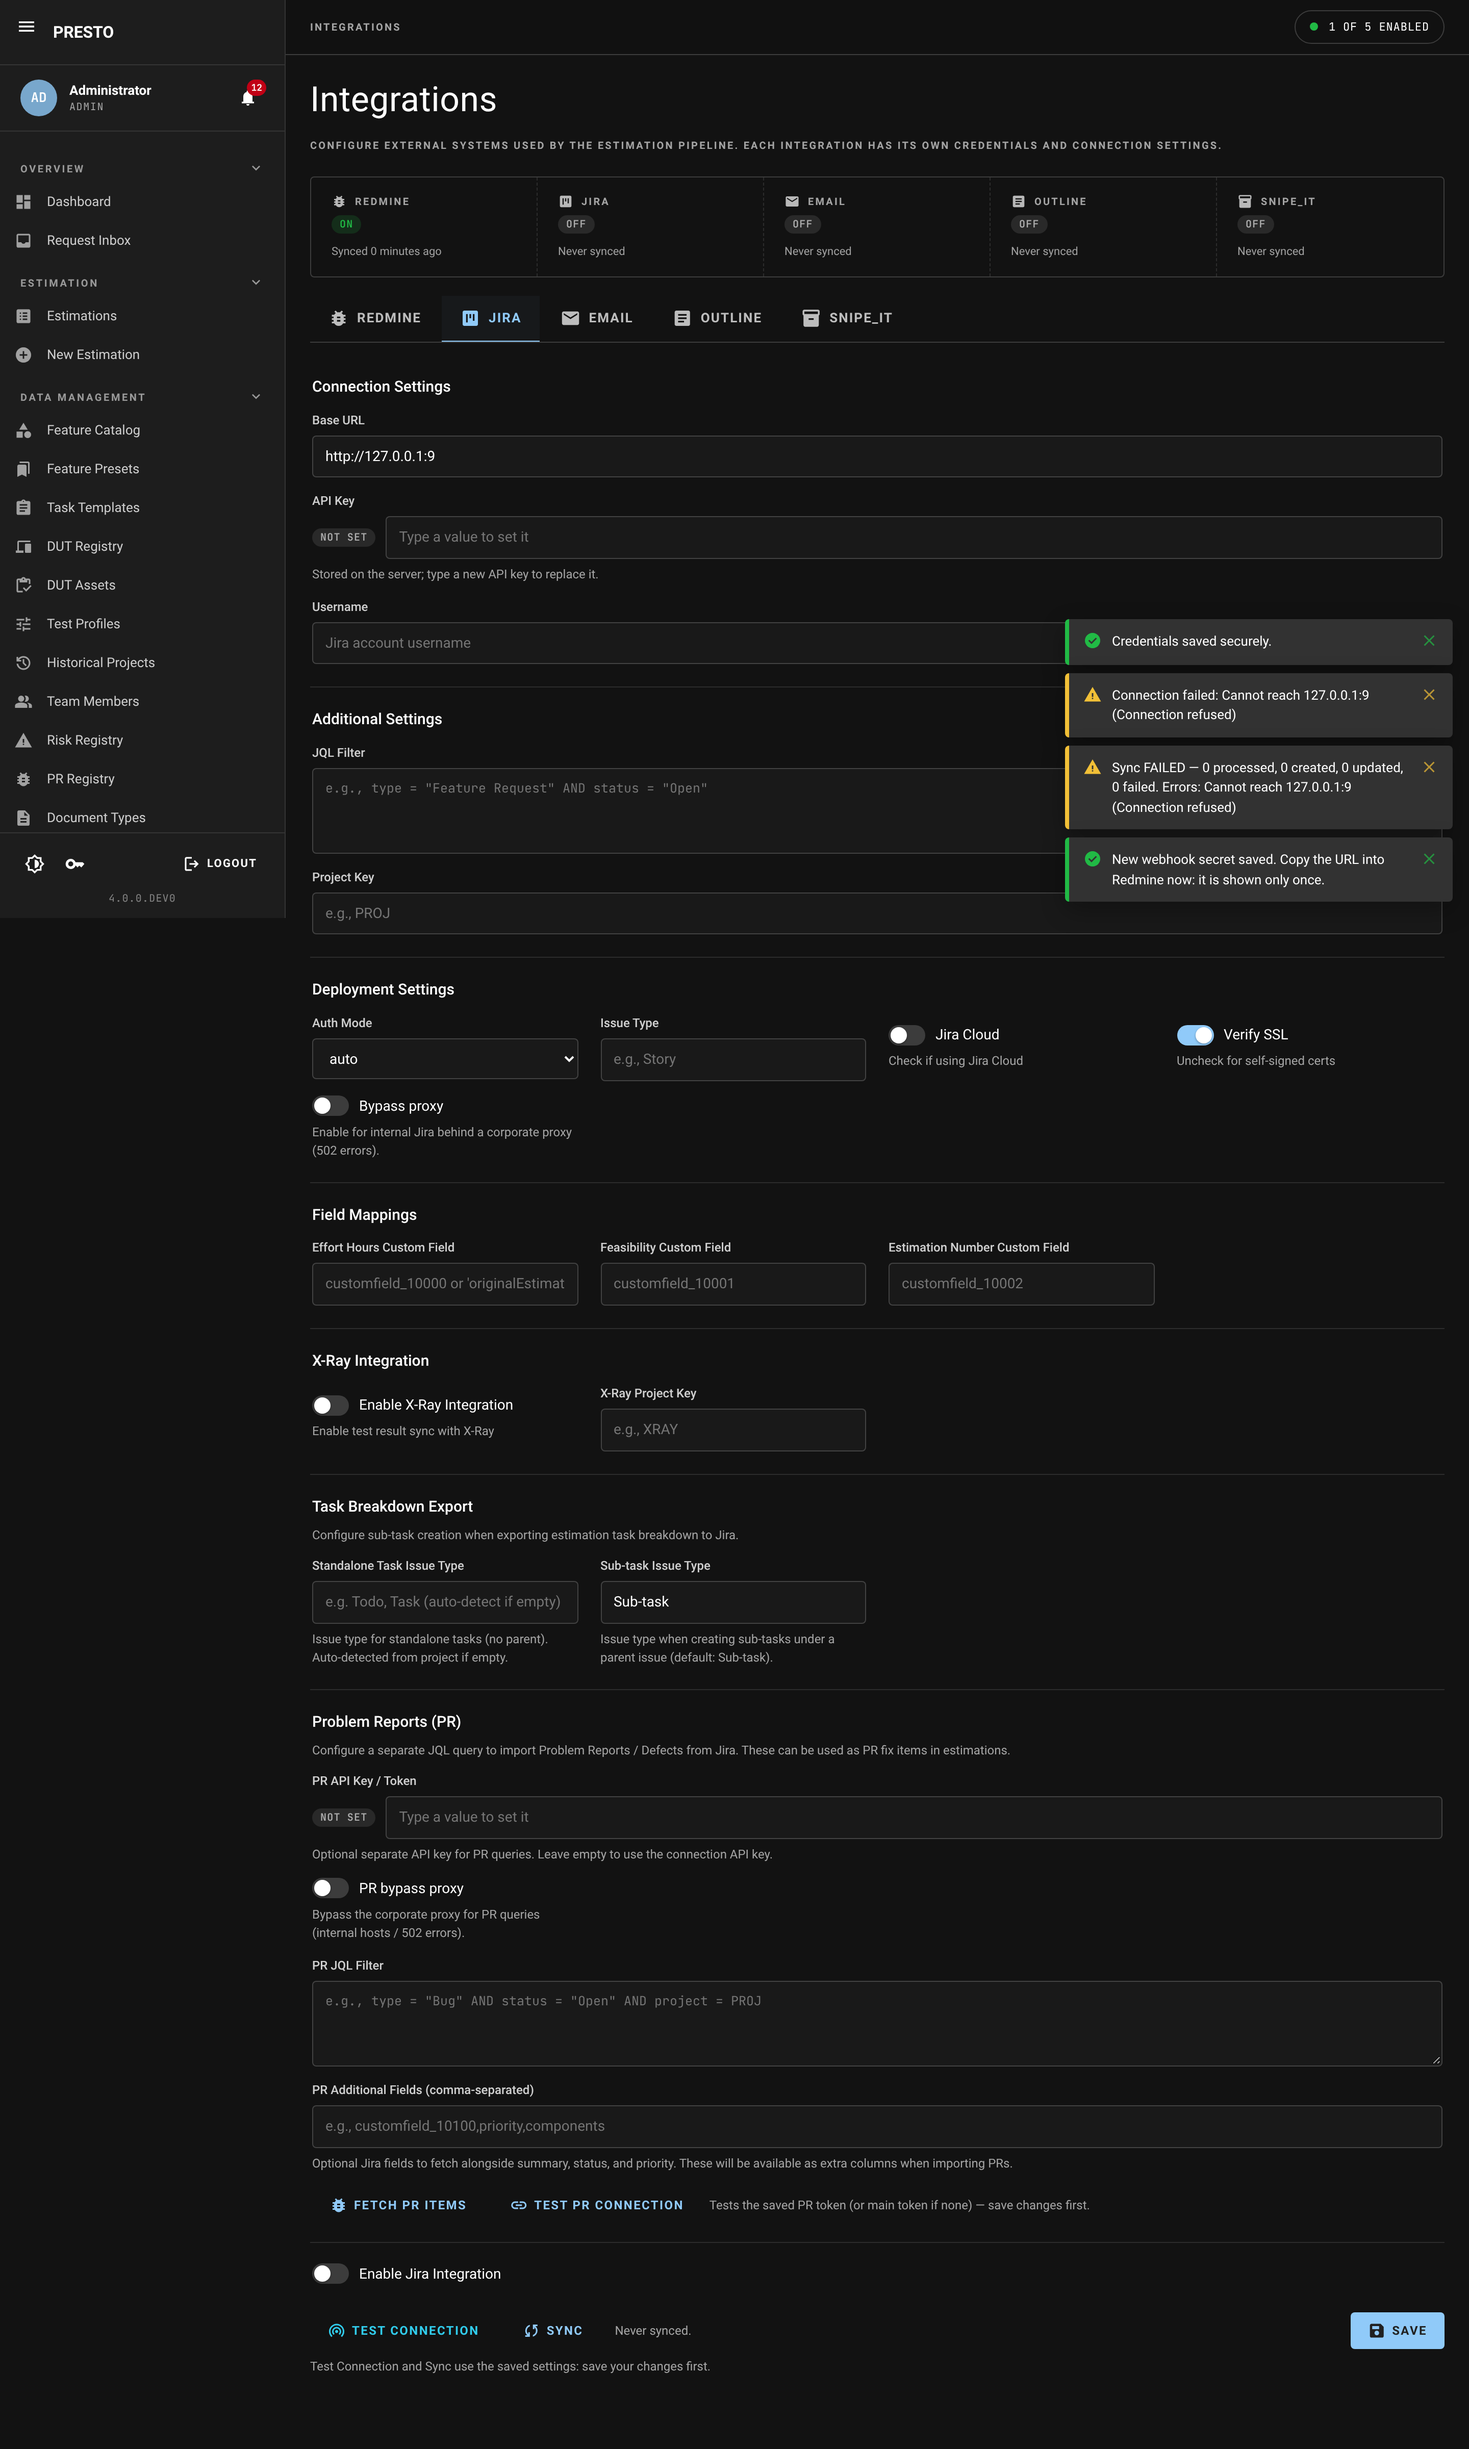
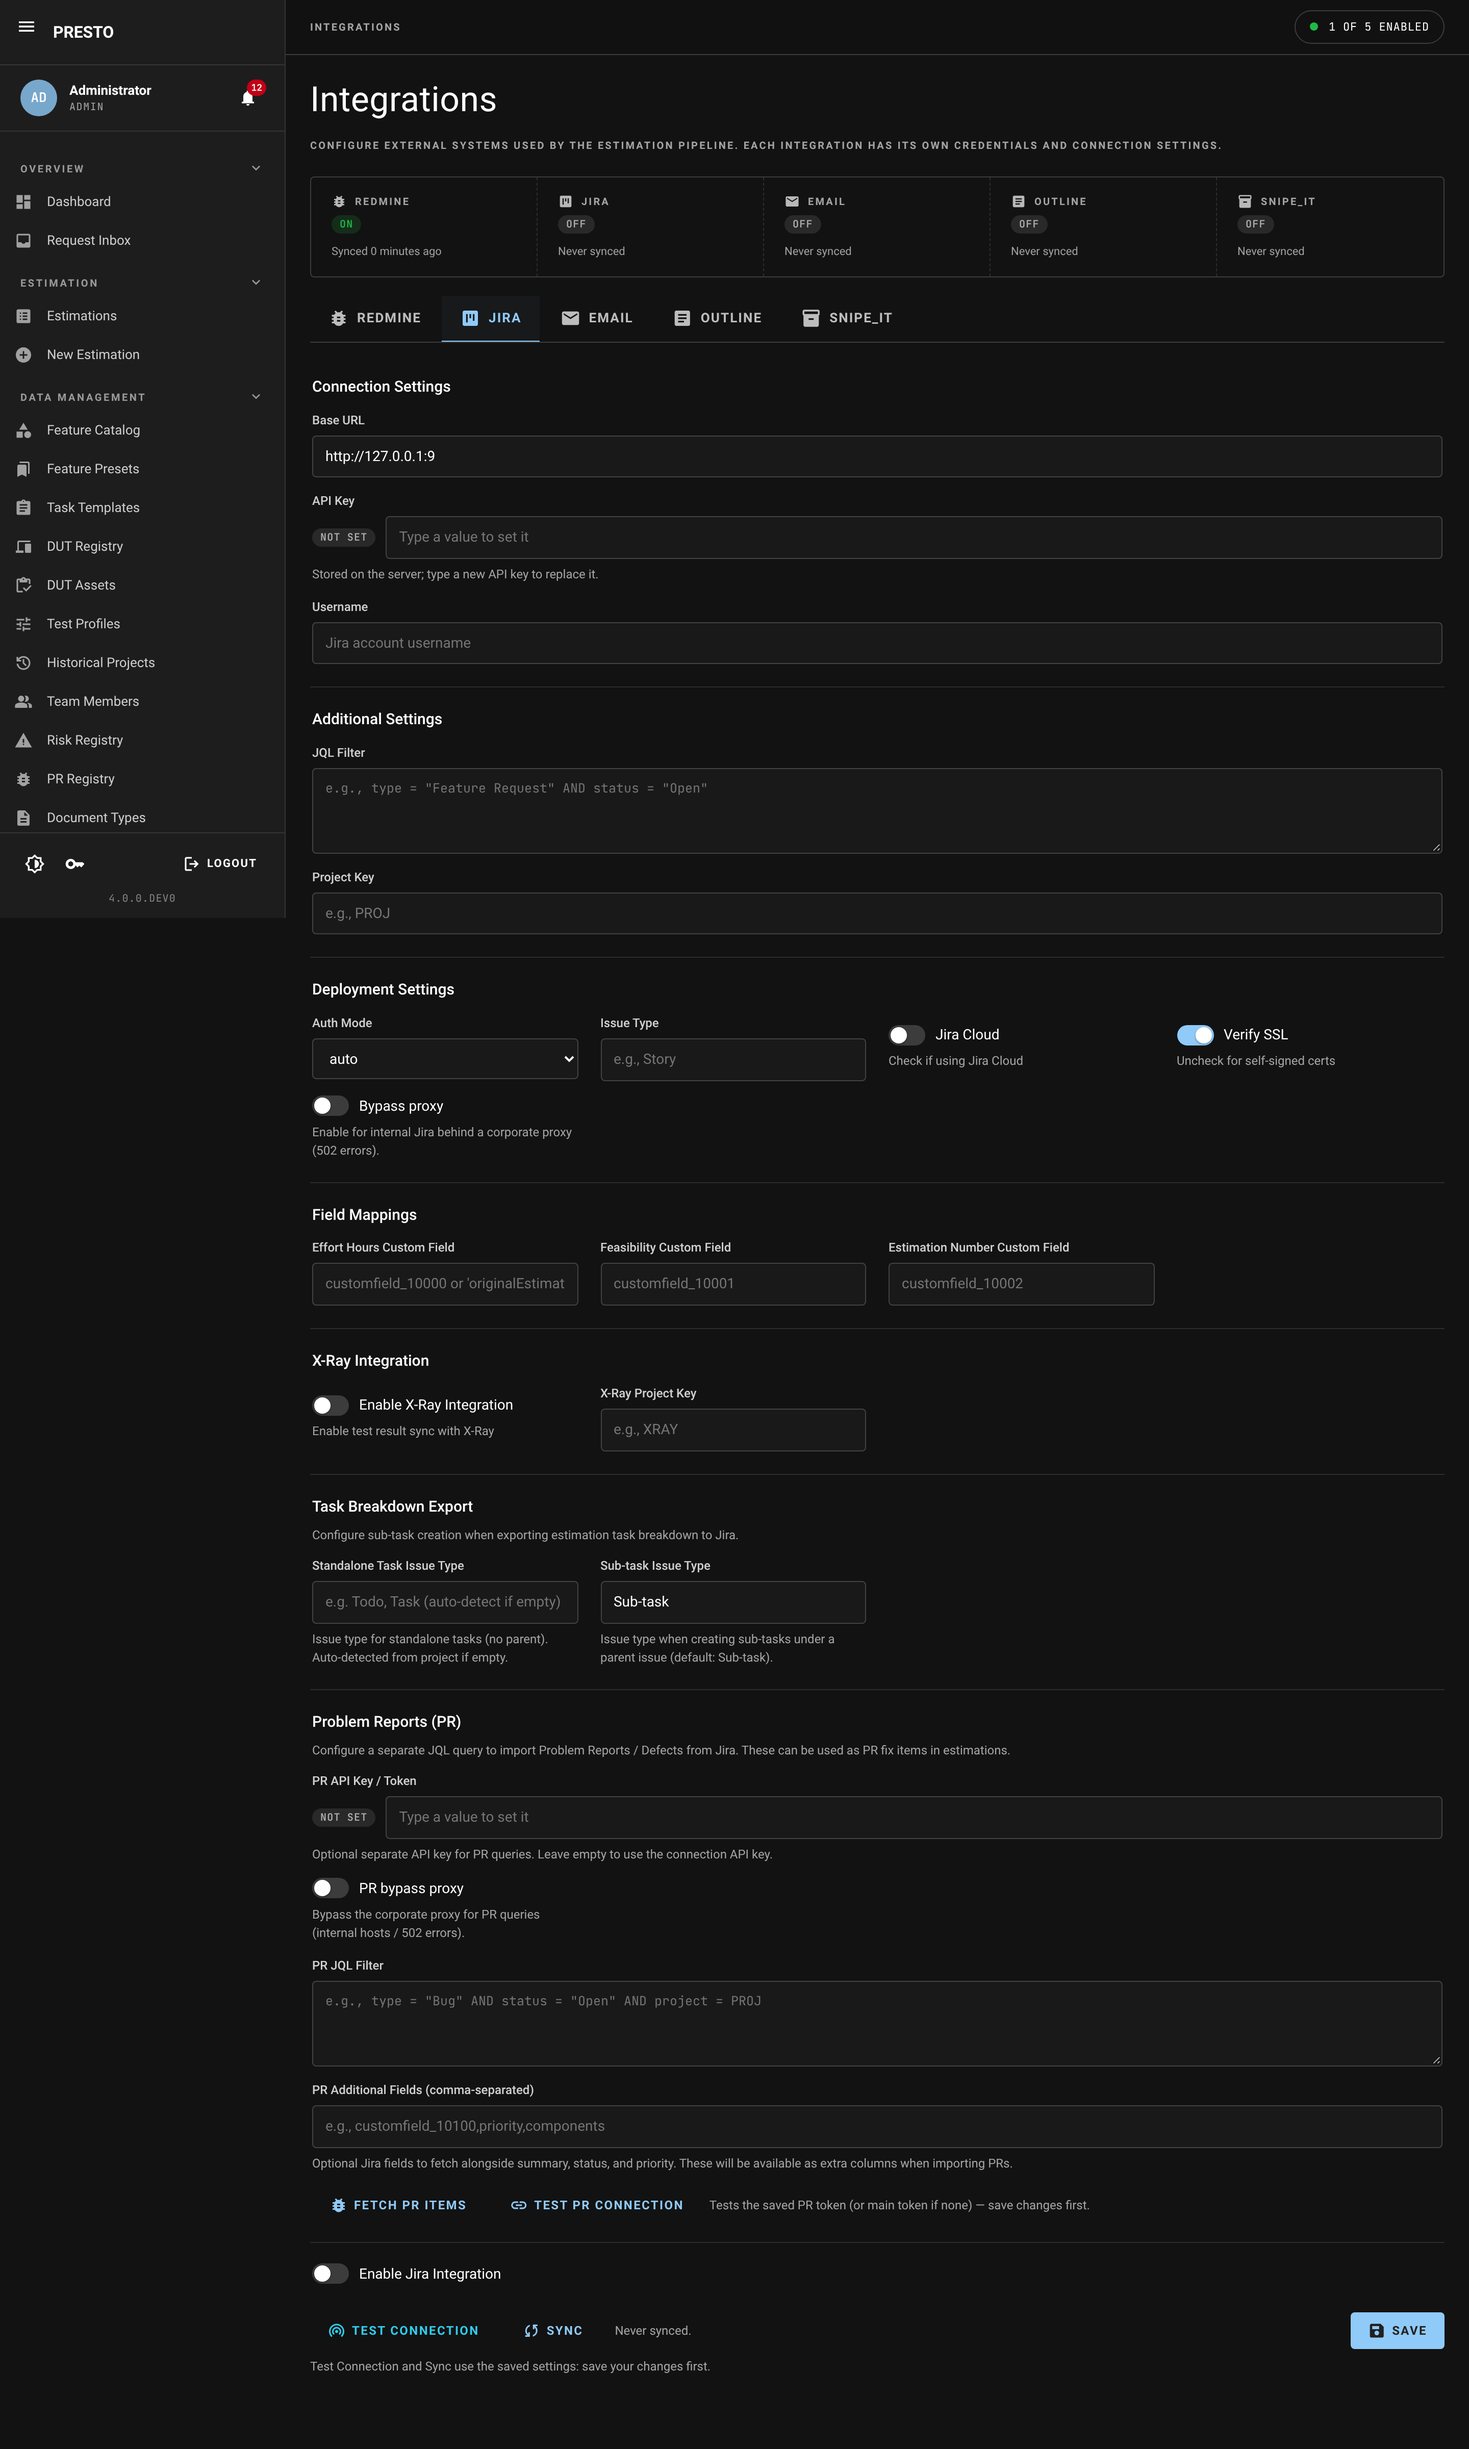
Phase 6: request inbox, dashboard, integrations and notifications pages
- Request inbox and detail with sync, attachments, assign, create estimation
- Dashboard with KPIs, pipeline, ECharts charts and recent lists; stats service
  shared with the API
- Integrations page with all five systems, test/sync, webhook secret, watchers
- Notifications page linked from the bell
- Fixes: toast nodes in htmx history broke browser Back; multi-line template
  comment leaked into pages; boosted links to forbidden pages now show the
  error page; New Estimation hidden without create permission
- No placeholder pages remain; 164 new tests (1411 total)

Changed region(s): [[0.7188, 0.2499, 1.0, 0.3748]]

diff --git a/v4/static/css/pages/integrations_config.css b/v4/static/css/pages/integrations_config.css
@@ -48,9 +48,9 @@
 
 /* Webhook secret + URL */
 .ic-webhook { display: flex; flex-direction: column; gap: 4px; margin-bottom: 14px; }
-.ic-webhook-secret { display: flex; align-items: flex-end; gap: 10px; flex-wrap: wrap; }
+.ic-webhook-secret { display: flex; align-items: flex-start; gap: 10px; flex-wrap: wrap; }
 .ic-webhook-secret > .ic-field { flex: 1; min-width: 220px; margin-bottom: 0; }
-.ic-generate { margin-bottom: 2px; }
+.ic-generate { margin-top: 23px; min-height: 42px; }
 .ic-hook { display: flex; flex-direction: column; gap: 6px; margin-top: 10px; }
 .ic-hook-row { display: flex; align-items: center; gap: 6px; min-width: 0; }
 .ic-hook-url { flex: 1; min-width: 0; overflow-wrap: anywhere; font-family: var(--ed-mono); font-size: 12.5px;

diff --git a/v4/static/js/app.js b/v4/static/js/app.js
@@ -96,6 +96,16 @@
     ];
   }
 
+  // Boosted navigation (sidebar links) to an error page shows that page, like a normal link would;
+  // other htmx requests keep the default (no swap, error toast).
+  document.addEventListener("htmx:beforeSwap", function (e) {
+    var cfg = e.detail.requestConfig || {};
+    if (cfg.boosted && e.detail.xhr.status >= 400 && !e.detail.xhr.getResponseHeader("HX-Redirect")) {
+      e.detail.shouldSwap = true;
+      e.detail.isError = false;
+    }
+  });
+
   // Keep GET URLs tidy (they are pushed to the address bar): drop empty and default list params.
   var LIST_DEFAULTS = { seg: "all", dir: "asc", page: "1" };
   document.addEventListener("htmx:configRequest", function (e) {

diff --git a/v4/templates/base_bare.html b/v4/templates/base_bare.html
@@ -28,7 +28,9 @@
 </head>
 <body hx-headers='{"X-CSRFToken": "{{ csrf_token }}"}' data-auth="{{ user.is_authenticated|yesno:'1,0' }}"
       class="{% block body_class %}{% endblock %}">
-{% block body %}{% endblock %}
+{% comment %}htmx history snapshots only #page: the Alpine-rendered toast list stays outside, so
+restoring a snapshot (browser Back) never revives toast nodes Alpine no longer manages.{% endcomment %}
+<div id="page" hx-history-elt>{% block body %}{% endblock %}</div>
 {% include "partials/_toasts.html" %}
 </body>
 </html>

diff --git a/v4/templates/partials/_notifications_panel.html b/v4/templates/partials/_notifications_panel.html
@@ -1,6 +1,7 @@
 {% load presto %}
 <div class="popover-head">
   <h2 class="popover-title">Notifications</h2>
+  <a class="btn btn-flat btn-dense btn-primary-text" href="{% url 'notifications_page' %}">{% icon "list" %}View all</a>
   {% if notifications %}
     <button type="button" class="btn btn-flat btn-dense btn-primary-text"
             hx-post="{% url 'notifications_read_all' %}" hx-target="#notif-panel">{% icon "done_all" %}Mark all read</button>

diff --git a/v4/templates/notifications/page.html b/v4/templates/notifications/page.html
@@ -1,7 +1,7 @@
 {% extends "base.html" %}
 {% load presto %}
 {% block content %}
-<div class="nt-page" hx-history="false">
+<div class="nt-page">
   <div class="ed-toolbar">
     <span class="ed-eyebrow">Notifications</span>
     <div class="ed-toolbar-grow"></div>

diff --git a/v4/templates/integrations_config/page.html b/v4/templates/integrations_config/page.html
@@ -1,7 +1,7 @@
 {% extends "base.html" %}
 {% load presto %}
 {% block content %}
-<div class="ic-page" hx-history="false">
+<div class="ic-page">
   <div class="ed-toolbar">
     <span class="ed-eyebrow">Integrations</span>
     <div class="ed-toolbar-grow"></div>

diff --git a/v4/tests/web/test_shell.py b/v4/tests/web/test_shell.py
@@ -19,9 +19,14 @@ class TestNavigation:
 
     def test_viewer_hidden_items(self, web_login, make_user, seeded):
         labels = nav_labels(web_login(make_user("VIEWER")))
-        hidden = {"Request Inbox", "Feature Presets", "Users", "RBAC", "Audit Log", "Backup & Restore"}
+        hidden = {"Request Inbox", "Feature Presets", "Users", "RBAC", "Audit Log", "Backup & Restore",
+                  "New Estimation"}
         assert hidden.isdisjoint(labels)
         assert {"Dashboard", "Estimations", "Feature Catalog", "Settings"} <= labels
+
+    def test_new_estimation_needs_create_permission(self, web_login, make_user, seeded):
+        assert "New Estimation" not in nav_labels(web_login(make_user("VIEWER")))
+        assert "New Estimation" in nav_labels(web_login(make_user("ESTIMATOR")))
 
     def test_estimator_sees_presets_and_inbox(self, web_login, make_user, seeded):
         labels = nav_labels(web_login(make_user("ESTIMATOR")))
@@ -37,9 +42,12 @@ class TestNavigation:
 
     def test_every_v3_page_url_exists(self, admin_client):
         from apps.estimations.models import Estimation
+        from apps.inbox.models import Request
 
         est = Estimation.objects.create(project_name="P", project_type="NEW")  # DRAFT: editable
-        details = ["/requests/1", f"/estimation/{est.pk}", f"/estimation/{est.pk}/edit"]
+        req = Request.objects.create(request_number="REQ-1", title="T", requester_name="PO",
+                                     received_date="2026-11-01")
+        details = [f"/requests/{req.pk}", f"/estimation/{est.pk}", f"/estimation/{est.pk}/edit"]
         for path in [i.path for i in ITEMS_BY_NAME.values()] + details:
             assert admin_client.get(path).status_code == 200, path
         assert admin_client.get("/estimation/999999").status_code == 404

diff --git a/v4/apps/web/navigation.py b/v4/apps/web/navigation.py
@@ -33,13 +33,13 @@ class NavSection:
 
 NAVIGATION: tuple[NavSection, ...] = (
     NavSection("overview", "Overview", (
-        NavItem("Dashboard", "dashboard", "dashboard", "/", phase=6),
+        NavItem("Dashboard", "dashboard", "dashboard", "/"),
         NavItem("Request Inbox", "inbox", "requests", "/requests",
-                ("view_requests", "manage_requests"), phase=6),
+                ("view_requests", "manage_requests")),
     )),
     NavSection("estimation", "Estimation", (
         NavItem("Estimations", "list_alt", "estimations", "/estimations"),
-        NavItem("New Estimation", "add_circle", "estimation_new", "/estimation/new"),
+        NavItem("New Estimation", "add_circle", "estimation_new", "/estimation/new", "create_estimations"),
     )),
     NavSection("data_management", "Data Management", (
         NavItem("Feature Catalog", "category", "features", "/features"),
@@ -58,7 +58,7 @@ NAVIGATION: tuple[NavSection, ...] = (
     )),
     NavSection("administration", "Administration", (
         NavItem("Settings", "settings", "settings", "/settings"),
-        NavItem("Integrations", "sync", "integrations", "/integrations", phase=6),
+        NavItem("Integrations", "sync", "integrations", "/integrations"),
         NavItem("Users", "manage_accounts", "users", "/users", "ADMIN"),
         NavItem("RBAC", "admin_panel_settings", "rbac", "/rbac", "ADMIN"),
         NavItem("Audit Log", "receipt_long", "audit", "/audit", "ADMIN"),

diff --git a/v4/tests/web/test_phase4_integration.py b/v4/tests/web/test_phase4_integration.py
@@ -19,12 +19,12 @@ def test_page_is_built_not_placeholder(admin_client, name):
     assert item.phase == 0, name
 
 
-def test_only_phase6_pages_remain_placeholders(admin_client):
-    for name in ("requests", "integrations"):
-        assert b"This page is being rebuilt" in admin_client.get(ITEMS_BY_NAME[name].path).content, name
-    for name in ("estimations", "estimation_new"):
-        resp = admin_client.get(ITEMS_BY_NAME[name].path)
+def test_no_placeholder_pages_remain(admin_client):
+    """Phase 6 completed the UI: every navigation item is a real page."""
+    for name, item in ITEMS_BY_NAME.items():
+        resp = admin_client.get(item.path)
         assert resp.status_code == 200 and b"This page is being rebuilt" not in resp.content, name
+        assert item.phase == 0, name
 
 
 def test_page_stylesheets_loaded_on_every_page(admin_client):

diff --git a/docs/v4-migration-plan.md b/docs/v4-migration-plan.md
@@ -1,6 +1,6 @@
 # PRESTO v4 — Migration Plan: Django + HTMX + Alpine.js
 
-**Status:** In progress (rev. 7: Phases 0 to 5 complete, see §17)
+**Status:** In progress (rev. 8: Phases 0 to 6 complete, all pages built, see §17)
 **Date:** 2026-11-09
 **Baseline:** v3.4.0 (FastAPI + SQLAlchemy backend, NiceGUI / Streamlit / C# WinForms frontends)
 
@@ -854,3 +854,30 @@ Intentional differences from v3:
 - PR fix hours on the detail page come from Settings instead of fixed 2/4/8; approving records the approver's name; the assign list works for approvers.
 
 Known limitation kept from v3: the wizard preview leaves out PR test-creation hours, which are added when saving (the preview labels that task "added on save").
+
+### Phase 6 — done (2026-11-11)
+
+The web UI now covers the full v3 feature set: every navigation item is a real page. Screenshots: `docs/v4-screenshots/phase6/`.
+
+| Page | Delivered |
+|------|-----------|
+| Request Inbox | Tiles, status/source/priority filters, search, add request with numbering, Redmine/Jira import with result summary, assign, create estimation from a request |
+| Request detail | Fields, safely rendered description, attachments upload/download (path-safe), edit, assign (pushed to Redmine), linked estimations |
+| Dashboard | KPI strip and pipeline (refreshed every 60 s), six ECharts charts themed for light/dark, recent estimations and requests; stats shared with `/api/dashboard/stats` |
+| Integrations | Five system tabs with every v3 field, test connection, sync, Jira PR test/fetch, Snipe-IT categories, webhook URL with secret generation, watchers, field mappings; secrets never shown |
+| Notifications | Full list with unread filter, mark read / all read, linked from the bell |
+
+Verification:
+
+- 1,411 tests pass (164 new); ruff is clean.
+- Browser sweep through the sidebar as admin (22 pages) and viewer (15 pages): no script errors, no placeholders, no horizontal scroll at phone width; dashboard charts render after sidebar navigation.
+- Fixed during integration: toasts broke browser Back after in-page URL changes (history snapshot now excludes them); a multi-line template comment leaked into every page; sidebar links to forbidden pages did nothing (error pages now shown); "New Estimation" is hidden from roles without the create permission.
+
+Intentional differences from v3:
+
+- Redmine/Jira import is also on the inbox; assign is also on list rows; request numbers are prefilled.
+- Dashboard "average estimation" label corrected to "across all estimations" (the figure always included drafts); team utilization stays 0% as in v3 (never computed).
+- Integrations: generating a webhook secret saves it and shows it once; settings the form does not manage are preserved on save; test/sync use saved settings.
+- New notifications page (v3 had only the bell, capped at 50).
+
+Next: Phase 7 (Docker image, compose, nginx, CI) and Phase 8 (remove v3 code, move v4 to the repository root, release 4.0.0).

diff --git a/v4/docs/UI_CONVENTIONS.md b/v4/docs/UI_CONVENTIONS.md
@@ -81,6 +81,13 @@ Resolution order (decision D6): the user's saved choice (`users.theme_preference
 2. Open it in both themes and at phone width (no horizontal scroll); look for console errors.
 3. Compare with the v3 screenshot in `docs/v3-baseline/screenshots/`.
 
+## Gotchas found in Phase 6
+
+- Django `{# … #}` comments are single-line only; a multi-line one is rendered into the page. Use `{% comment %}…{% endcomment %}`.
+- htmx history snapshots only `#page` (`hx-history-elt` in `base_bare.html`); toasts live outside it so browser Back never revives stale Alpine nodes. Keep other Alpine-rendered global UI outside `#page` too.
+- Boosted navigation to an error page (403/404) swaps the error page in (`htmx:beforeSwap` in `app.js`); other htmx requests keep the error toast.
+- Page scripts loaded after a boosted swap run asynchronously: mark Alpine components that depend on them `x-ignore` and start them from the script (`delete el._x_ignore; Alpine.initTree(el)`), as `static/js/pages/dashboard.js` does. Keep third-party objects (ECharts instances) out of Alpine reactive data.
+
 ## Framework follow-ups (suggested while building Phase 4 pages)
 
 Pages currently work around these by overriding methods or copying template markup. Fold them into `apps/web/crud.py` and `templates/web/crud/` when a page next needs one:
